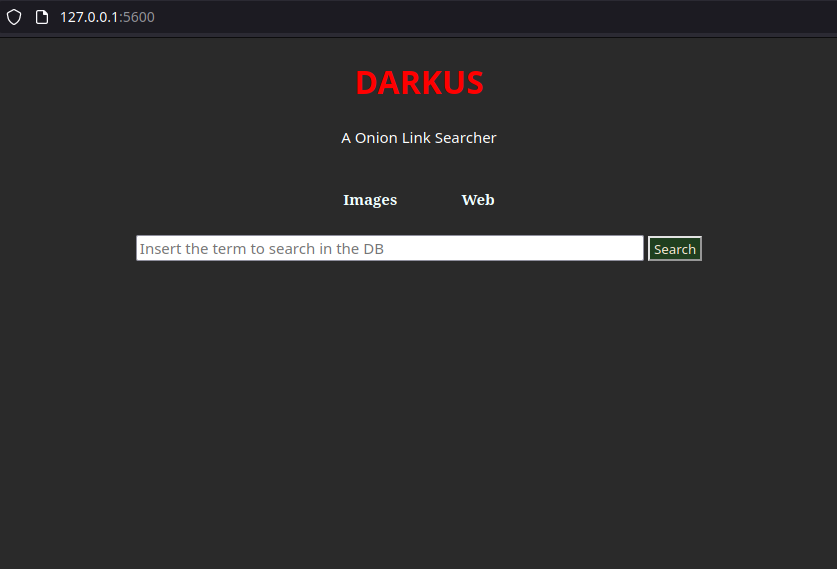
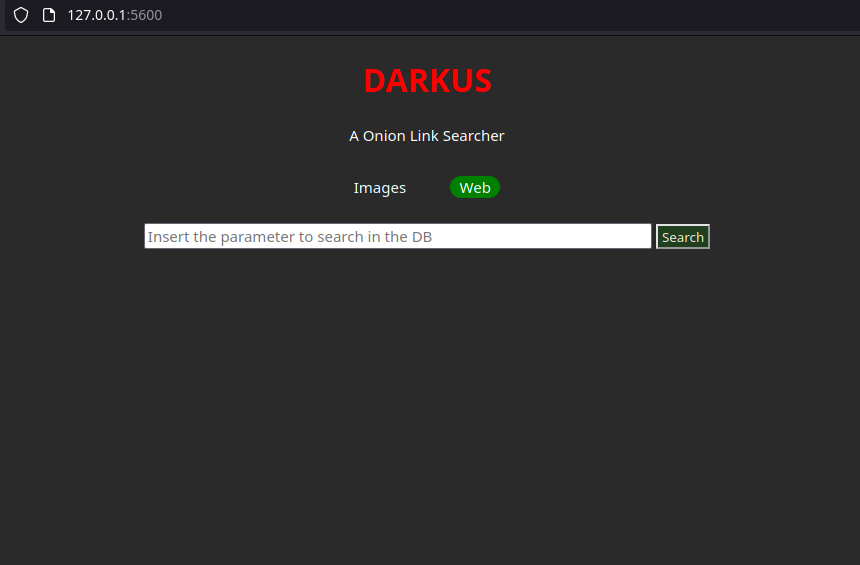
Add files via upload

diff --git a/Css/Style.css b/Css/Style.css
@@ -46,12 +46,12 @@ button{
     height: 25px;
 }
 
-.choice_bar h5{
+.choice_bar p{
     display: inline-block;
-    margin-left: 30px;
+    margin-left: 20px;
     font-size: 15px;
     color: azure;
-    margin-right: 30px;
+    margin-right: 20px;
 }
 
 #NotFound{
@@ -78,4 +78,8 @@ button{
     margin-top: -25px;
     height: 50px;
     width: auto;
+}
+
+.searchbar{
+    margin-top:10px;
 }

diff --git a/index.php b/index.php
@@ -10,11 +10,19 @@ License: GNU General Public License v3.0-->
             function get_res(){
                 if (isset($_POST["WEB"])){
                     $parameter = $_POST["input"];
+                    if($parameter == ""){
+                        echo"<script>alert('Insert a parameter')</script>";
+                        echo "<span id = 'NotFound'>Insert a parameter</span>";
+                    }
                     $filename = "output/{$parameter}.txt";
                     $filename2 = "output/{$parameter}.Dk";
                 }
-                else{
+                else if(isset($_POST["IMAGE"])){
                     $parameter = $_POST["input"];
+                    if($parameter == ""){
+                        echo"<script>alert('Insert a parameter')</script>";
+                        echo "<span id = 'NotFound'>Insert a parameter</span>";
+                    }
                     $filename = "output/{$parameter}_image.txt";
                     $filename2 = "output/{$parameter}_image.Dk";
                 }
@@ -45,54 +53,58 @@ License: GNU General Public License v3.0-->
                         echo "<span id = 'NotFound'>{$parameter} Not Found</span>";
                     }
                 }
-                else{
-                    echo"<script>alert('Insert a parameter')</script>";
-                    echo "<span id = 'NotFound'>Insert a parameter</span>";
-                }
             }
         ?>
         <script>
             function Image_Search(){
                 document.getElementById("image").style.display="block";
                 document.getElementById("Web").style.display="none";
+                document.getElementById("Img").style.backgroundColor="Green";
+                document.getElementById("Img").style.borderRadius="20px";
+                document.getElementById("Img").style.width="60px";
+                document.getElementById("web").style.width="none";
+                document.getElementById("web").style.backgroundColor="transparent";
+                //document.getElementsByClassName("choice_bar")[0].style.marginLeft="-25px";
             }
             function Web_Search(){
-                document.getElementById("image").style.display="none";
                 document.getElementById("Web").style.display="block";
-            }   
+                document.getElementById("image").style.display="none";
+                document.getElementById("web").style.backgroundColor="Green";
+                document.getElementById("web").style.borderRadius="20px";
+                document.getElementById("web").style.width="50px";
+                document.getElementById("Img").style.width="none";
+                document.getElementById("Img").style.backgroundColor="transparent";
+            }
         </script>
         <title>Darkus</title>
         <link rel = "stylesheet" href ="Css/Style.css">
     </head>
-    <body>
+    <body onload = "Web_Search()">
         <center>
             <h1>DARKUS</h1>
             <p>A Onion Link Searcher</p>
             <div class = "choice_bar">
-                <h5 onclick="Image_Search()">Images</h5>
-                <h5 onclick="Web_Search()">Web</h5>   
-            </div>         
+                <p onclick="Image_Search()" id = "Img">Images</p>
+                <p onclick="Web_Search()" id = "web">Web</p>
+            </div>
             <div class = "searchbar">
                 <div id ="Web">
-                    <form action = "" method = "Post">
-                        <input type = "text" placeholder = "Insert the term to search in the DB" name = "input" id = "search">
+                    <form action = "" method = "POST">
+                        <input type = "text" placeholder = "Insert the parameter to search in the DB" name = "input" id = "search">
                         <button type = "submit" name = "WEB">Search</button>
                     </form>
                 </div>
                 <div id ="image">
-                    <form action = "" method = "Post">
-                        <input type = "text" placeholder = "Insert the image to search in the DB" name = "input" id = "search">
+                    <form action = "" method = "POST">
+                        <input type = "text" placeholder = "Insert the image parameter to search in the DB" name = "input" id = "search">
                         <button type = "submit" name = "IMAGE">Search</button>
-                </div>     
-                </form>
+                    </form>
+                </div>
                 <?php
                     get_res();
-                ?>   
+                ?>
             </div>
-        <!--</center>-->
         </center>
         </div>
     </body>
 </html>
-
-<?php
